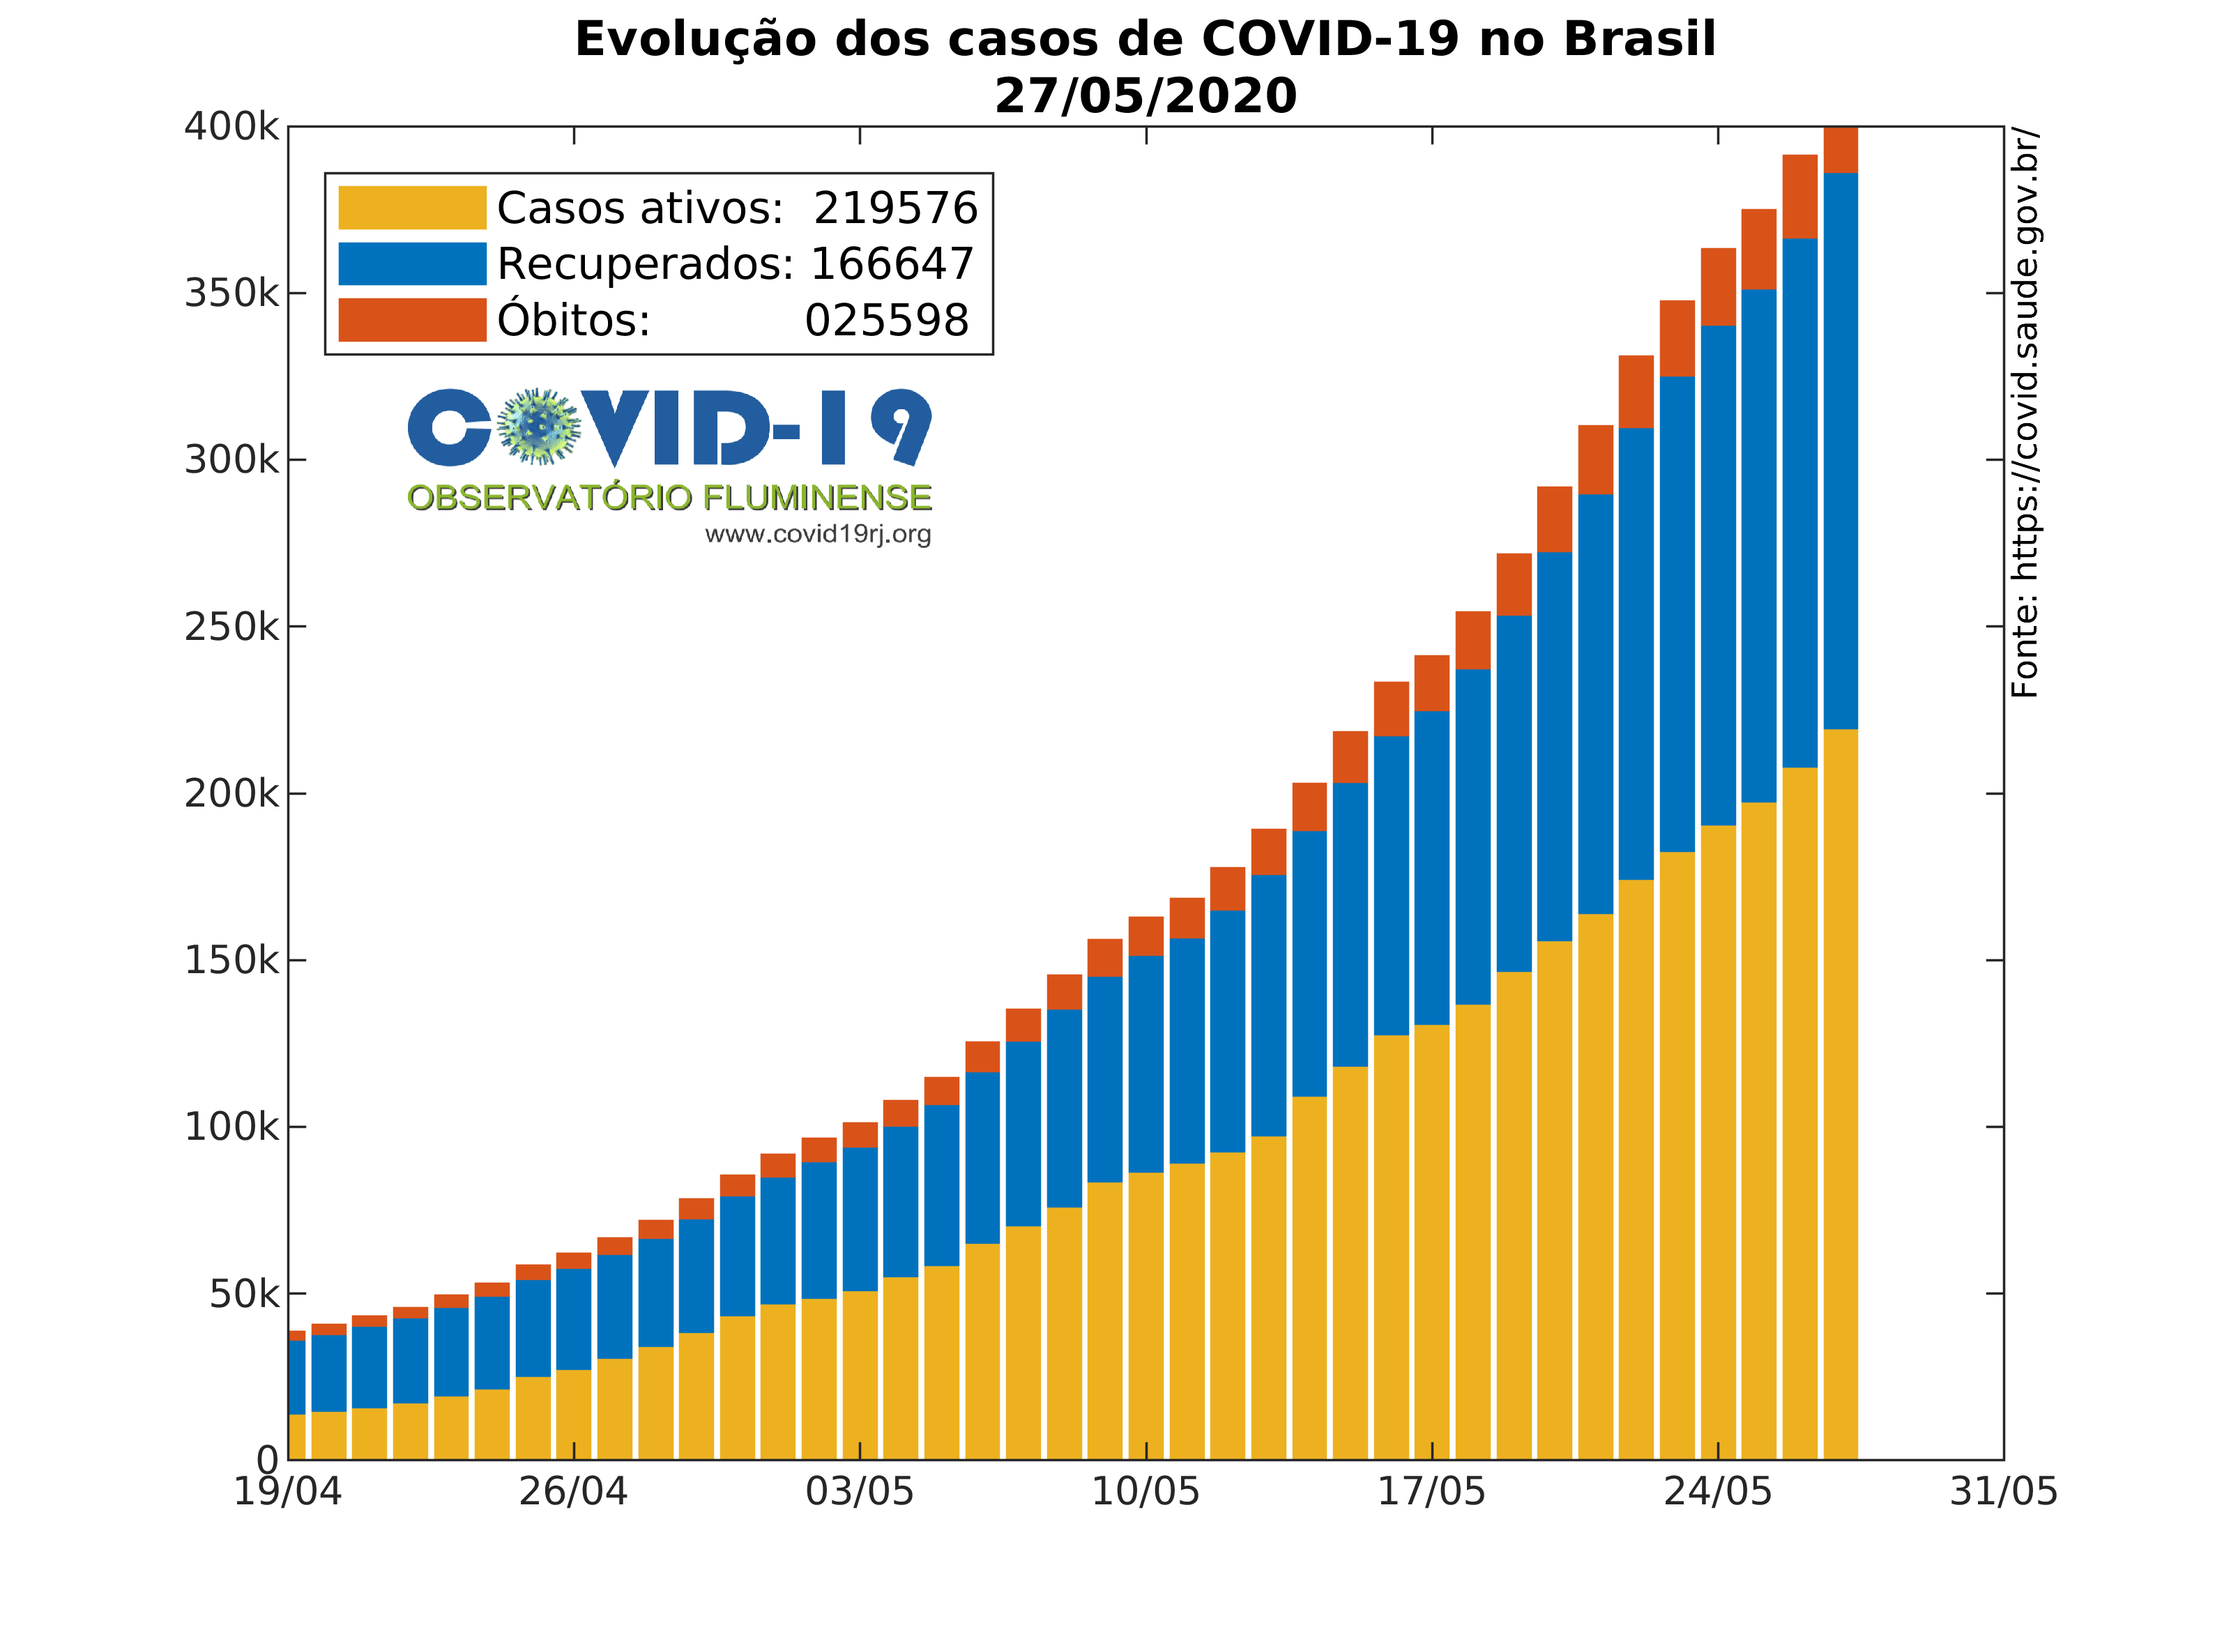
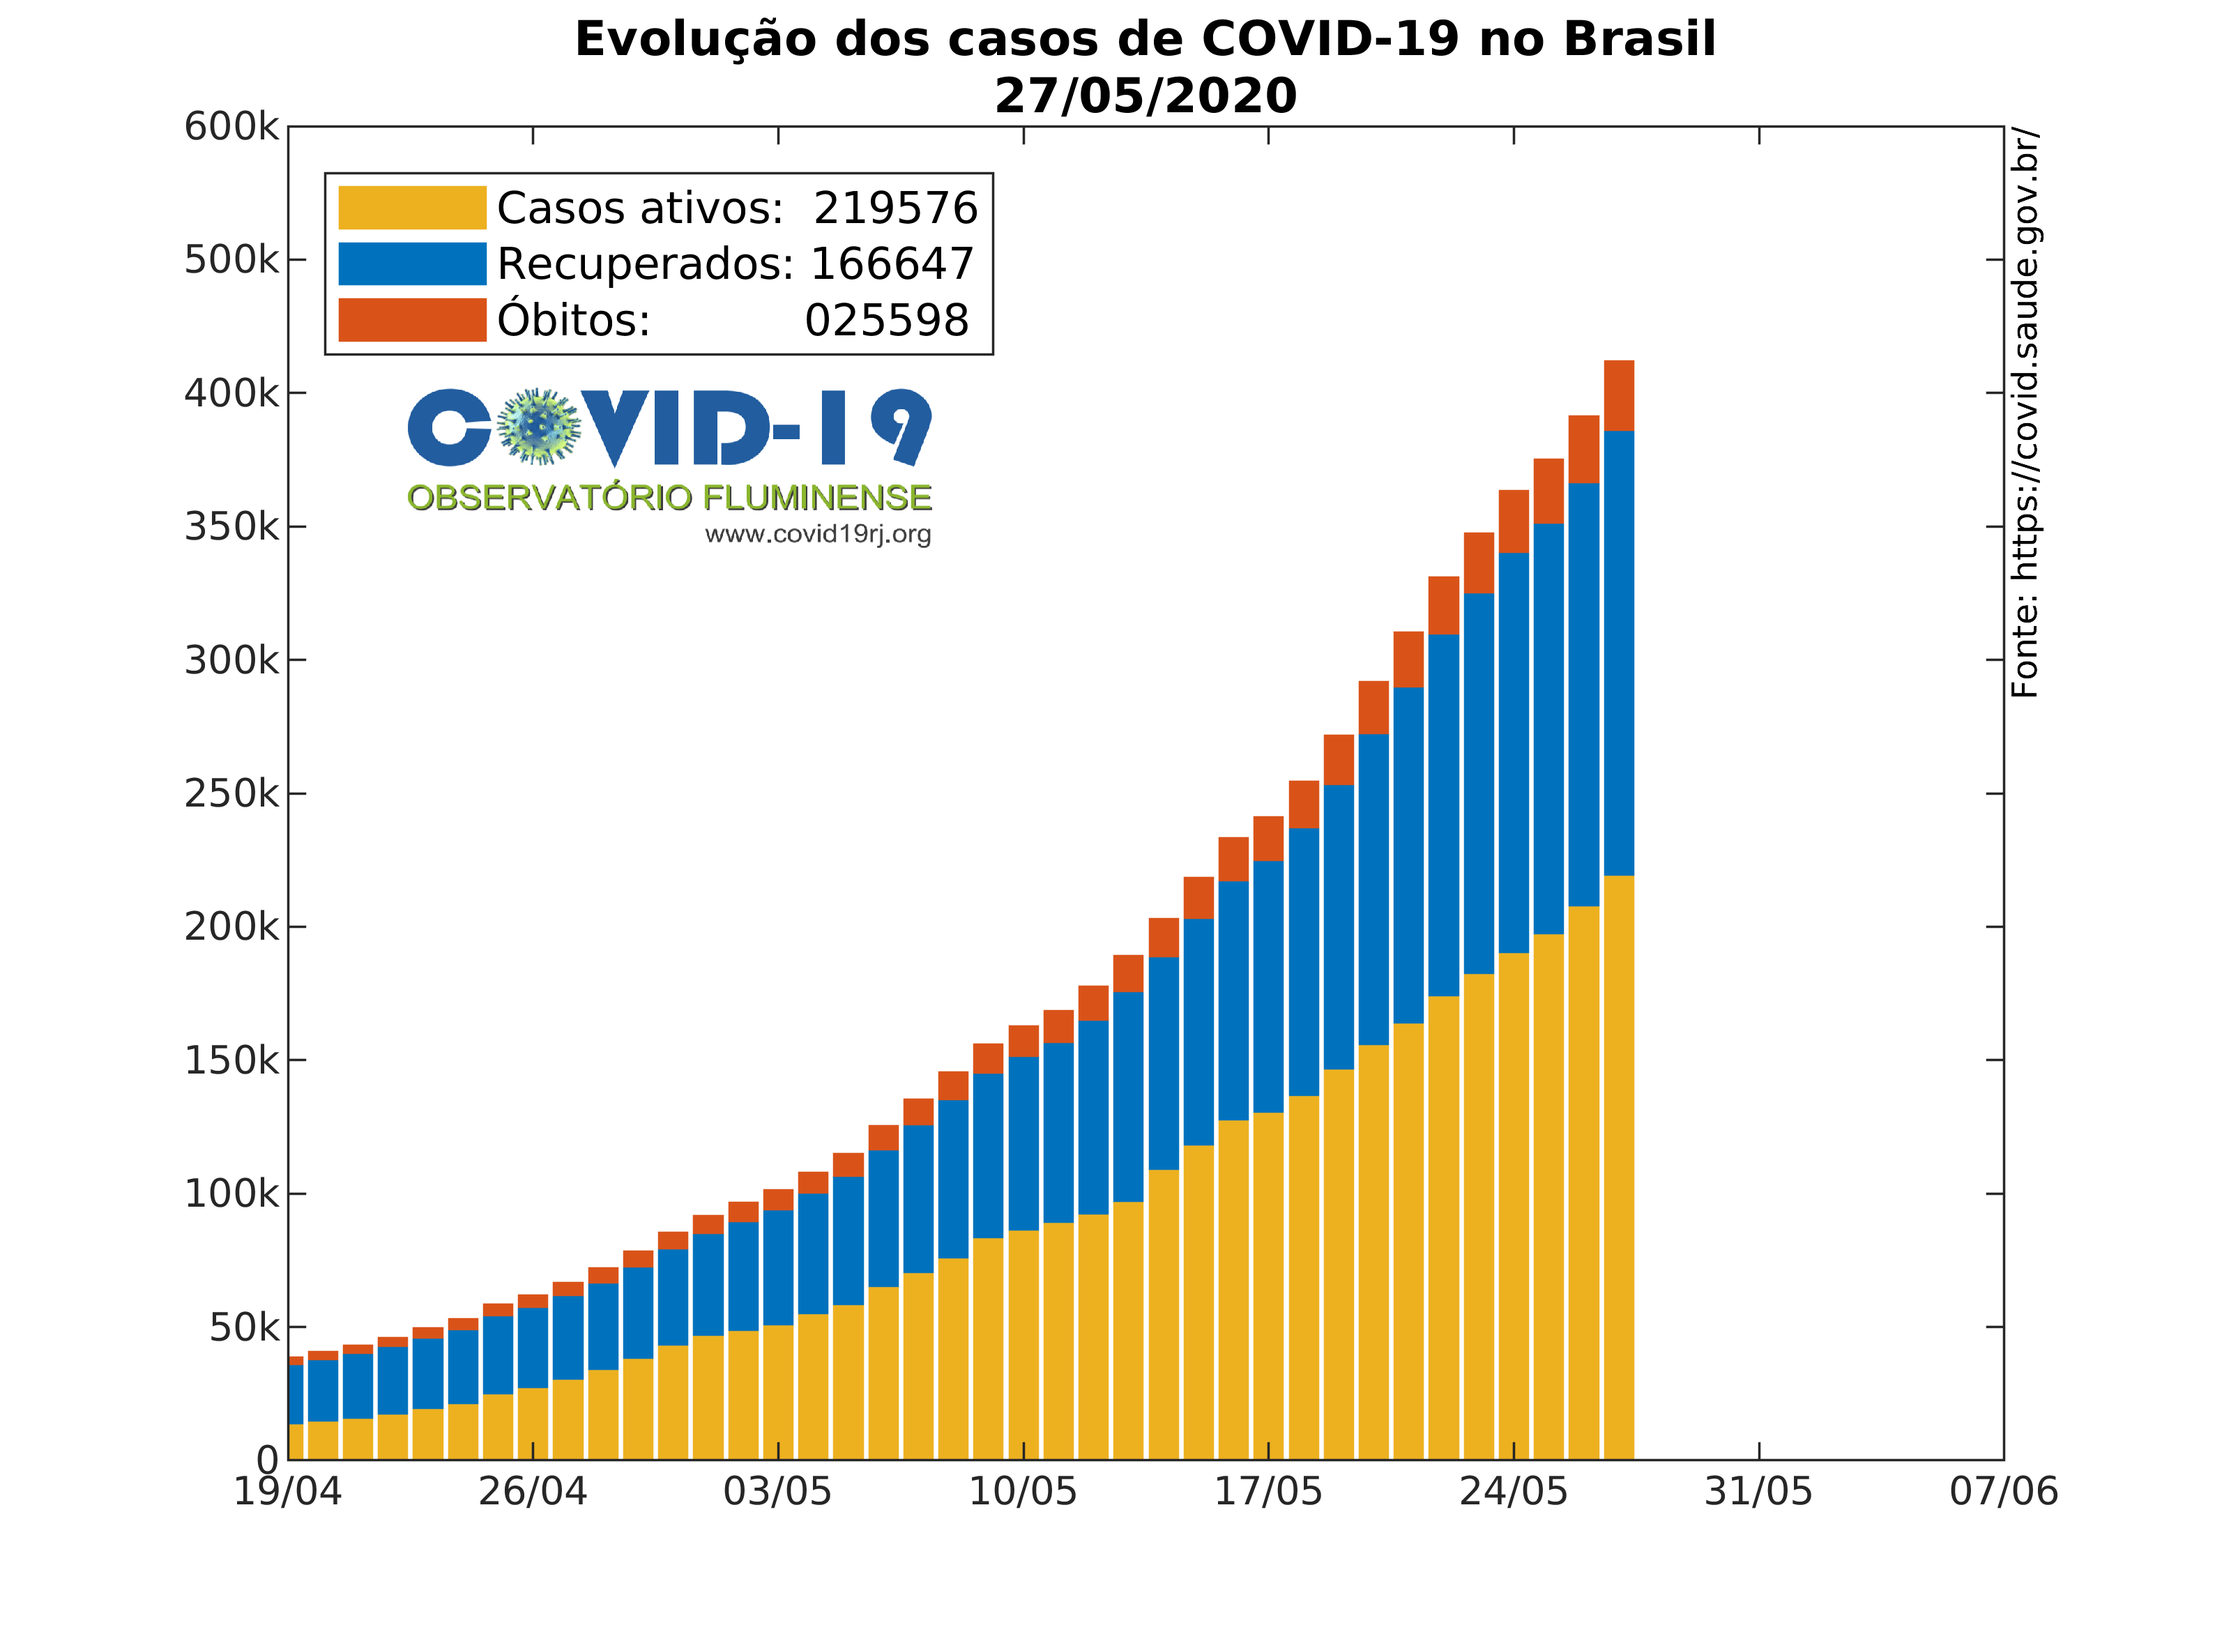
Update

diff --git a/Monitoramento/covid19rj_M_ST_BR_RE.m b/Monitoramento/covid19rj_M_ST_BR_RE.m
@@ -44,14 +44,14 @@ b(2).EdgeColor = [0 0.4470 0.7410];
 b(3).EdgeColor = [0.8500 0.3250 0.0980];
 
 
-tend = datetime(2020,5,31,0,0,0);
+tend = datetime(2020,6,7,0,0,0);
 xlim([tstart tend]);
-set(gca, 'XTick', linspace(tstart,tend,7))
+set(gca, 'XTick', linspace(tstart,tend,8))
 datetick('x',19,'keepticks')
 max_x=tend;
-max_y=400000;
+max_y=500000;
 ylim([0 max_y]);
-set(gca,'YTickLabel',{'0','50k','100k','150k','200k','250k','300k','350k','400k'})
+set(gca,'YTickLabel',{'0','50k','100k','150k','200k','250k','300k','350k','400k','500k','600k'})
 
 
 legend(strcat("Casos ativos:  ", num2str( sprintf( '%06d', max(BRASIL(:,1)) ))),strcat("Recuperados: ", num2str(sprintf( '%06d', max(BRASIL(:,2)) ))),strcat("Óbitos:           ", num2str( sprintf( '%06d', max(BRASIL(:,3))) )));

diff --git a/Monitoramento/covid19rj_M_ST_WD_PM.m b/Monitoramento/covid19rj_M_ST_WD_PM.m
@@ -125,7 +125,7 @@ location = data(find(strcmp([all_data.location], country)),1:8);
 dates = all_data.date(find(strcmp([all_data.location],country)),:);
 end_time = max(datenum(dates))-1;
 
-if strcmp(country, 'United States') country = 'EUA             '; end 
+if strcmp(country, 'United States') country = 'EUA            '; end 
 if strcmp(country, 'United Kingdom') country = 'Reino Unido  '; end
 if strcmp(country, 'Belgium') country = 'Bélgica            '; end 
 if strcmp(country, 'Brazil') country = 'Brasil            '; end 

diff --git a/Monitoramento/covid19rj_M_ST_WD_VA.m b/Monitoramento/covid19rj_M_ST_WD_VA.m
@@ -79,7 +79,7 @@ location = data(find(strcmp([all_data.location], country)),1:8);
 dates = all_data.date(find(strcmp([all_data.location],country)),:);
 end_time = max(datenum(dates))-1;
 
-if strcmp(country, 'United States') country = 'EUA            '; end 
+if strcmp(country, 'United States') country = 'EUA           '; end 
 if strcmp(country, 'United Kingdom') country = 'Reino Unido'; end
 if strcmp(country, 'Belgium') country = 'Bélgica          '; end 
 if strcmp(country, 'Brazil') country = 'Brasil          '; end 
